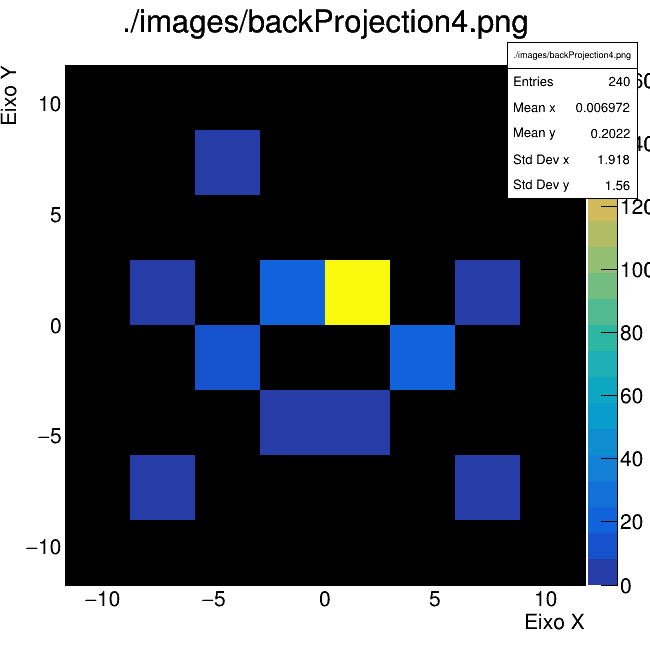
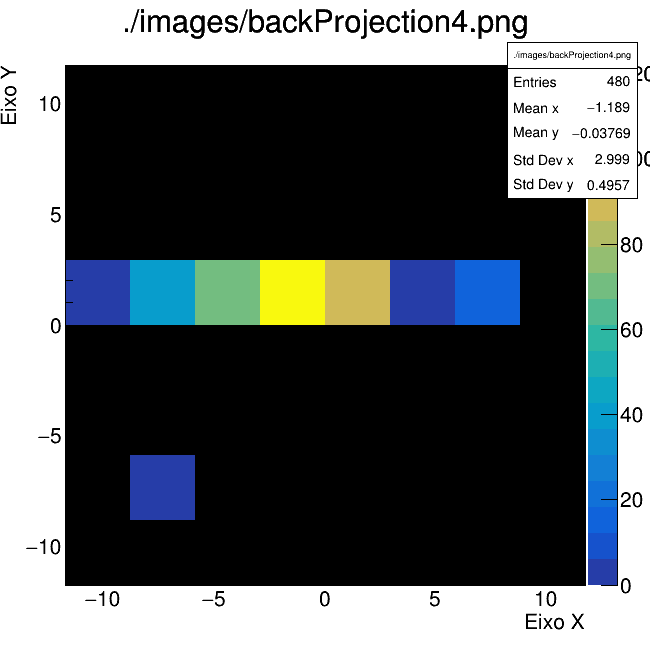
add changes into discrete fourier transform

diff --git a/src/discreteFourierTransform.cpp b/src/discreteFourierTransform.cpp
@@ -4,40 +4,61 @@
 #include <vector>
 #include <iostream>
 #include "../header/discreteFourierTransform.h"
+#include "TVirtualFFT.h"
+#include "TMath.h"
 
 /*https://jakevdp.github.io/blog/2013/08/28/understanding-the-fft/ */
 /*https://en.wikipedia.org/wiki/Discrete_Fourier_transform#:~:text=In%20mathematics%2C%20the%20discrete%20Fourier,complex%2Dvalued%20function%20of%20frequency.*/
 /*Escrever em termo de cos*/
 
-std::vector<std::array<float, 4>> dft(std::vector<std::array<float, 4>> projectionProfile)
+std::vector<std::array<float, 2>> dft(std::vector<std::array<float, 4>> projectionProfile)
 {
 	// TODO rever essa dft pra que fique mais rápida
-	const int projectionsProfileSize = projectionProfile.size();
+	Int_t projectionsProfileSize = projectionProfile.size();
+
 	float PI = 3.14159265358979323846;
 
-	std::vector<std::array<float, 4>> projectionProfileFourier;
-	std::array<float, 4> valuesFourier;
-	int n = 0;
+	std::vector<std::array<float, 2>> projectionProfileFourier;
+	std::array<float, 2> valuesFourier;
 
 	// TODO adicionar um gráfico para visualização dos dados
+	Double_t array[projectionsProfileSize];
+
+	TVirtualFFT *fft = TVirtualFFT::FFT(1, &projectionsProfileSize, "R2C M K");
 
 	for (int k = 0; k < projectionsProfileSize; k++)
 	{
-		float sum = 0;
-		for (int m = 0; m < projectionsProfileSize; m++)
-		{
-			for (int n = 0; n < projectionsProfileSize; n++)
-			{
-				sum = sum + projectionProfile[n][0] * (cos(-2 * PI * m * n / projectionsProfileSize));
-			}
-		}
+		array[k] = projectionProfile[k][0];
+		// float sum = 0;
+		// for (int m = 0; m < projectionsProfileSize; m++)
+		// {
+		// 	for (int n = 0; n < projectionsProfileSize; n++)
+		// 	{
+		// 		sum = sum + projectionProfile[n][0] * (cos(-2 * PI * m * n / projectionsProfileSize));
+		// 	}
+		// }
 
-		valuesFourier[0] = sum * (1 / projectionsProfileSize);
-		valuesFourier[1] = projectionProfile[k][1];
-		valuesFourier[2] = projectionProfile[k][2];
-		valuesFourier[3] = projectionProfile[k][3];
-		projectionProfileFourier.push_back(valuesFourier);
+		// // TODO confirmar o que é esse Kr(?) -> abs(num) seria o ramp filter?
+
+		// valuesFourier[0] = sum * (1 / projectionsProfileSize) * abs(sum);
+		// valuesFourier[1] = projectionProfile[k][1];
+		// valuesFourier[2] = projectionProfile[k][2];
+		// valuesFourier[3] = projectionProfile[k][3];
+		// projectionProfileFourier.push_back(valuesFourier);
 	}
 
+	fft->SetPoints(array);
+	fft->Transform();
+
+	Double_t *re_full = new Double_t[projectionsProfileSize];
+	Double_t *im_full = new Double_t[projectionsProfileSize];
+	fft->GetPointsComplex(re_full, im_full);
+
+	for (int k = 0; k < projectionsProfileSize; k++)
+	{
+		valuesFourier[0] = re_full[k];
+		valuesFourier[1] = im_full[k];
+		projectionProfileFourier.push_back(valuesFourier);
+	}
 	return projectionProfileFourier;
 }

diff --git a/src/inverseDiscreteFourierTransform.cpp b/src/inverseDiscreteFourierTransform.cpp
@@ -3,6 +3,7 @@
 #include <complex>
 #include <vector>
 #include <iostream>
+#include <TVirtualFFT.h>
 #include "../header/inverseDiscreteFourierTransform.h"
 
 /*https://jakevdp.github.io/blog/2013/08/28/understanding-the-fft/ */
@@ -11,31 +12,53 @@
 
 std::vector<std::array<float, 2>> idft(std::vector<std::array<float, 2>> projectionProfile)
 {
-	// TODO ERRO NA INVERSE DISCRETE
-	const int projectionsProfileSize = projectionProfile.size();
+
+	int projectionsProfileSize = projectionProfile.size() * 2;
 	float PI = 3.14159265358979323846;
 
 	std::vector<std::array<float, 2>> projectionProfileFourier;
 	std::array<float, 2> valuesFourier;
-	int n = 0;
+	Double_t xKPoints[projectionsProfileSize];
+	Double_t yKPoints[projectionsProfileSize];
+	std::cout << "projections profile size" << projectionsProfileSize << std::endl;
+
+	TVirtualFFT *fft = TVirtualFFT::FFT(1, &projectionsProfileSize, "C2R");
 
 	for (int k = 0; k < projectionsProfileSize; k++)
 	{
-		float sum = 0;
-		valuesFourier[0] = 0;
-		valuesFourier[1] = 0;
-		for (int m = 0; m < projectionsProfileSize; m++)
-		{
-			for (int n = 0; n < projectionsProfileSize; n++)
-			{
-				valuesFourier[0] = valuesFourier[0] + projectionProfile[n][0] * (cos(2 * PI * m * n / projectionsProfileSize));
-				valuesFourier[1] = valuesFourier[1] + projectionProfile[n][1] * (cos(2 * PI * m * n / projectionsProfileSize));
-			}
-		}
+		xKPoints[k] = projectionProfile[k][0];
+		yKPoints[k] = projectionProfile[k][1];
+		// float sum0 = 0;
+		// float sum1 = 0;
+		// for (int m = 0; m < projectionsProfileSize; m++)
+		// {
+		// 	for (int n = 0; n < projectionsProfileSize; n++)
+		// 	{
+		// 		sum0 = sum0 + projectionProfile[n][0] * (cos(2 * PI * m * n / projectionsProfileSize));
+		// 		sum1 = sum1 + projectionProfile[n][0] * (cos(2 * PI * m * n / projectionsProfileSize));
+		// 	}
+		// }
 
-		projectionProfileFourier.push_back(valuesFourier);
+		// valuesFourier[0] = sum0;
+		// valuesFourier[1] = sum1;
+
+		// projectionProfileFourier.push_back(valuesFourier);
 	}
 
-	std::cout << "Ended a sum" << std::endl;
+	fft->SetPoints(xKPoints);
+	fft->Transform();
+
+	Double_t *re_full = new Double_t[projectionsProfileSize];
+	Double_t *im_full = new Double_t[projectionsProfileSize];
+	fft->GetPoints(re_full);
+
+	for (int k = 0; k < projectionsProfileSize; k++)
+	{
+		std::cout << re_full[k] << std::endl;
+		std::cout << im_full[k] << std::endl;
+		valuesFourier[0] = re_full[k];
+		valuesFourier[1] = im_full[k];
+		projectionProfileFourier.push_back(valuesFourier);
+	}
 	return projectionProfileFourier;
 }

diff --git a/helloworld.cpp b/helloworld.cpp
@@ -70,14 +70,6 @@ int main(int argc, char *argv[])
             int slice = (C_crystal1 + C_crystal2);
             theta_and_s_crystal_id = theta_s_crystal(crystalID1, crystalID2, run, crystals_number, deltaTheta, rsectorID1);
             int allProjectionsSliceSize = (allProjections[slice]).size();
-            // for (int k = 0; k < allProjectionsSliceSize; k++)
-            // {
-            //     if ((allProjections[slice][k][0] == theta_and_s_crystal_id[0]) && (allProjections[slice][k][1] == theta_and_s_crystal_id[1]))
-            //     {
-            //         allProjections[slice][k][3] = allProjections[slice][k][3] + 1;
-            //         break;
-            //     }
-            // }
             line[0] = theta_and_s_crystal_id[0];
             line[1] = theta_and_s_crystal_id[1];
             line[2] = theta_and_s_crystal_id[2];

diff --git a/src/projections.cpp b/src/projections.cpp
@@ -21,14 +21,14 @@ void Projection::fourierProjection()
 {
 	std::array<float, 2> intermediateArray;
 
-	std::vector<std::array<float, 4>> fourierTransform;
+	std::vector<std::array<float, 2>> fourierTransform;
 	fourierTransform = dft(projection);
 
 	int fourierTransformSize = fourierTransform.size();
 	for (int k = 0; k < fourierTransformSize; k++)
 	{
-		intermediateArray[0] = fourierTransform[k][0] * cos(angle);
-		intermediateArray[1] = fourierTransform[k][0] * sin(angle);
+		intermediateArray[0] = sqrt(fourierTransform[k][0] * fourierTransform[k][0] + fourierTransform[k][1] * fourierTransform[k][1]) * cos(angle);
+		intermediateArray[1] = sqrt(fourierTransform[k][0] * fourierTransform[k][0] + fourierTransform[k][1] * fourierTransform[k][1]) * sin(angle);
 		fourierTransform2d.push_back(intermediateArray);
 	};
 }

diff --git a/header/discreteFourierTransform.h b/header/discreteFourierTransform.h
@@ -9,4 +9,4 @@
 /*https://en.wikipedia.org/wiki/Discrete_Fourier_transform#:~:text=In%20mathematics%2C%20the%20discrete%20Fourier,complex%2Dvalued%20function%20of%20frequency.*/
 /*Escrever em termo de cos*/
 
-std::vector<std::array<float, 4>> dft(std::vector<std::array<float, 4>> projectionProfile);
+std::vector<std::array<float, 2>> dft(std::vector<std::array<float, 4>> projectionProfile);
